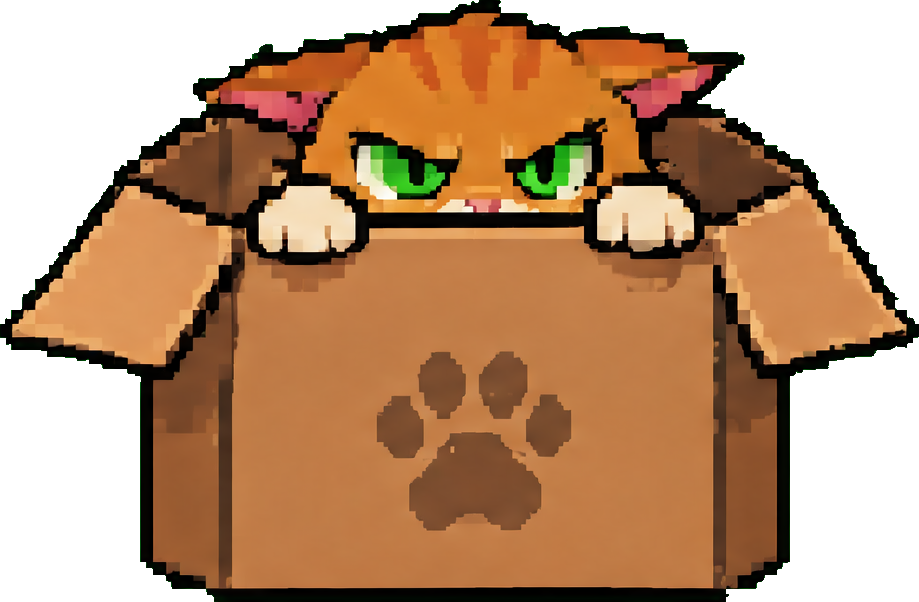
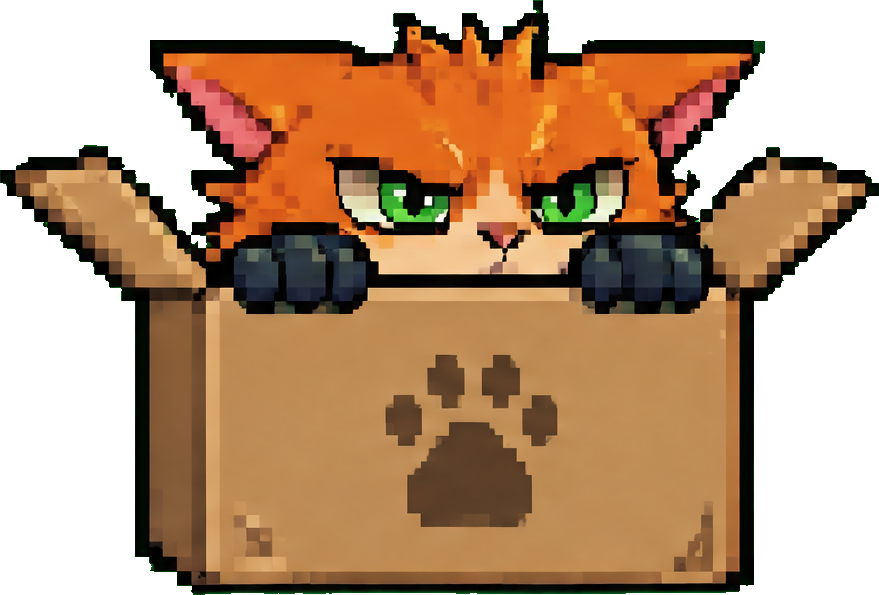
Space Whiskers: Miss Clou redrawn from the owner's character sheet; the sheet listed in ref.json
The sheet (ref/misscloue_referencesheet.png, added on main) is now the design reference of tools/sheets2.mjs's missclou sheet; the earlier takes are kept as originals.
pack_moon2.py recolours the lime patch left in the startled tail.

Claude-Session: https://claude.ai/code/session_01Q3BUi73YBWJ2GXbmis6gA1

diff --git a/games/spacewhiskers/tools/pack_moon2.py b/games/spacewhiskers/tools/pack_moon2.py
@@ -70,6 +70,15 @@ def despill(path):
     Image.fromarray(a.astype(np.uint8)).save(path)
 
 
+def lime_to_orange(path):
+    """a patch of the green ground stayed inside Miss Clou's startled tail: lime pixels (green far above red and blue) become fur orange"""
+    a = np.asarray(Image.open(path).convert('RGBA')).astype(int)
+    m = (a[..., 3] > 0) & (a[..., 1] > a[..., 0] + 30) & (a[..., 1] > a[..., 2] + 60)
+    H, W = m.shape; m[:int(H * .4)] = False; m[:, int(W * .4):] = False   # only the tail (left, lower): her eyes and the helmet's tint are green on purpose
+    a[..., 0] = np.where(m, np.maximum(a[..., 0], 215), a[..., 0]); a[..., 1] = np.where(m, a[..., 1] * 0.5, a[..., 1]).astype(int)
+    Image.fromarray(a.astype(np.uint8)).save(path)
+
+
 def reflected_sky(dst):
     """a glossy crust mirrors the sky: the bottom 108 game pixels of round 1's sky, flipped upside down, washed toward milk white, fading out downwards in steps"""
     sky = Image.open(REF / 'bubblingmoon_bg_outdoor_1.png').convert('RGB').crop((0, 648, 3840, 1080))
@@ -87,11 +96,11 @@ All sizes below are art pixels (one art pixel = a 4 x 4 block of picture pixels)
 
 ## First, three things that apply to everything
 
-1. **The model draws bigger than it is asked to.** I asked for your sizes, but the pictures came out larger (Miss Clou stands about 214 art pixels tall, Pip 49; the round-2 ladder is 49 x 91 where the first one is 21 x 57). I did **not**
+1. **The model draws bigger than it is asked to.** I asked for your sizes, but the pictures came out larger (Miss Clou stands about 240 art pixels tall, Pip 49; the round-2 ladder is 49 x 91 where the first one is 21 x 57). I did **not**
    resample: the pack lists the size drawn, the size asked and the factor for every sprite (`sprites/INDEX.md`, `manifest.json`), so your prep step can snap them and scale them to the size you want. Where a sprite is cut in a family
    (the pipe slide, Miss Clou) its pieces are drawn at the same scale as each other, except where noted.
 2. **The pixels are not on a perfect 4 x 4 grid** (as in the first pack): the Pixel Snapper step still has to put them on the grid and the palette.
-3. **I could not listen to any sound**, and I did not have your Miss Clou sheet as a file (only what I could see of it): see below.
+3. **I could not listen to any sound**: see the end.
 
 ## 1. Missing from the pack: done
 
@@ -112,8 +121,10 @@ All sizes below are art pixels (one art pixel = a 4 x 4 block of picture pixels)
 - **Pipe slide pieces at Pip's size: partly.** `pipeslide/straight` (tiles end to end), `end-left`, `end-right` (spits, with a drip), `tee-up`, `tee-down`: clear inside about **52 art pixels** tall, a little under the 54 you asked for (Pip is 49).
   `pipeslide/shaft` (tiles), `corner-up`, `corner-down` and `flow-1..4` come from a second try and are about **1.2 times bigger** than the straight piece (clear inside 53-56): scale the first set up by 1.1-1.2 or the second down to match.
   The glass is **not see-through**: tube and milk are one opaque picture; to let Pip show inside, draw him over it and draw the glass highlights over him, or tell me and I will draw a glass-only layer.
-- **Miss Clou: done, with a caveat.** `missclou/stand, cool, startled, hover-1, hover-2` (booster flame), `box-open-cat`, `box-closed-cat`, `box-empty`. She is drawn from my reading of your character sheet (orange tabby, white and orange suit,
-  cyan chest gauge, pointed ears, green eyes, ion-booster pack, bubble helmet, no cape), **not from the sheet itself**: it was not on disk. Please put the original in `games/spacewhiskers/ref/` and I will match her to it.
+- **Miss Clou: done.** `missclou/stand, cool, startled, hover-1, hover-2` (booster flame), `box-open-cat`, `box-closed-cat`, `box-empty`. Drawn from **your character sheet** (`misscloue_referencesheet.png`, now in the repository): the orange tabby with
+  pink-lined ears, the white suit with charcoal panels and orange piping, the cyan chest gauge, the pack with its cyan strip and boosters, no cape, in game proportions (a big head). A first take, made from my reading of the sheet
+  before it was in the repository, is kept in `ref/` and not delivered. She is drawn big (about 240 art pixels tall: factor about 0.2 to the 52 asked, see INDEX). The startled frame had a patch of the green ground inside its tail, which I recoloured to fur orange in the pack:
+  look at it. Her face in the box is a front view with her fur spiked up: it reads grumpy, not like the sheet's neat face.
 - **The helmeted cat on the pump trolley: done.** `cat/trolley`, `helmet-asleep-1`, `helmet-asleep-2` (breathing), `helmet` (cracked open), `freed` (sitting up, surprised).
 - **Scrapbook: done.** `scrapbook/polaroid-frame`, the nine photos (`photo-reflection, photo-curd-sail, photo-milkyway-top, photo-missclou-box, photo-plaque, photo-old-ceremony, photo-pipe-map, photo-new-bubble, photo-blank`),
   `camera-icon`, `map-page`, HUD icons `hud-photo-icon, hud-map-icon, hud-camera-icon`. (The cat in `photo-missclou-box` is a ginger tabby in a box: it does not wear the suit, as a photo of her in the box should not.)
@@ -165,6 +176,7 @@ def main(out):
             if group in SKIP: continue
             dst = root / 'sprites' / group / f'{name}.png'; dst.parent.mkdir(parents=True, exist_ok=True); shutil.copy(REF / f['file'], dst)
             if f'{group}/{name}' in DESPILL: despill(dst)
+            if f'{group}/{name}' == 'missclou/startled': lime_to_orange(dst)
             a = asked.get((group, name)); sz = [f['size'][0] // 4, f['size'][1] // 4]
             manifest.append(dict(group=group, name=name, file=f'sprites/{group}/{name}.png', size_px=f['size'], size_game_px=sz, asked_game_px=list(a) if a else None,
                                  factor_to_asked=round(a[1] / sz[1], 2) if a and sz[1] else None, sheet=sheet_file, box_on_sheet=f['box']))

diff --git a/games/spacewhiskers/tools/art.py b/games/spacewhiskers/tools/art.py
@@ -33,6 +33,9 @@ SHEETS = [
          source='the owner (an image model)', use='props for the levels, on a green ground (not cut yet)'),
     dict(file='StarWhiskers-theholycow_cover.png', title='Cover: Pip, the cat, the Holy Cow and MEGA-MJAU\'s fortress (title art still reads "Star Whiskers")',
          source='the owner (an image model)', use='the cover and title screen; the look of the cast'),
+    dict(file='misscloue_referencesheet.png', title='Miss Clou: the character reference sheet (front, side, back, helmet, life support, action poses, faces, palette)',
+         source='the owner (an image model)', use='her design for the Bubbling Moon (the box, the booster hover); the second take of tools/sheets2.mjs\'s missclou sheet draws her from it',
+         note='Labels are in Danish and English (HJELM = helmet, RYGSAEK = backpack, ANSIGTSUDTRYK = facial expressions, FARVEPALETTE = colour palette, DETALJER = details).'),
     # ---- the Bubbling Moon (chapter 9): made through the image API by tools/sheets.mjs, one big picture each, to be cut up later ----
     # (the prompts and what the API answered are in ref/prompts/; the level design that asks for them is story/BUBBLING_MOON.md)
     dict(file='bubblingmoon_terrain.png', title='Bubbling Moon props 1: ground and platforms (glossy, thin and matte crust, floating chunks, Swiss ledges), craters and holes, rocks, plants, decals',
@@ -67,6 +70,7 @@ ROUND2_NOTES = {
     'bubblingmoon2_slide.png': 'The second take of the slide pieces: straight, end-left, end-right, tee-up, tee-down (clear inside about 52 art pixels), the pipeline leg and the giant bubble. Its shaft, corners and flow frames are cut as pipeslide_take1 (too small); slide2 has the good ones.',
     'bubblingmoon2_slide2.png': 'The shaft, the two corners and the four flow frames redrawn to the straight piece\'s size (clear inside 53-56 art pixels): about 1.2 times the size of the straight piece of slide.',
     'bubblingmoon2_characters.png': 'The cats, Pip crawling and the rocket. Its first Miss Clou (row 1 and the box, cut as missclou_old) came out as a mouse in a cat suit because Pip\'s picture was one of the references: kept, not used. missclou.png redraws her without it.',
+    'bubblingmoon2_missclou_take1.png': 'Miss Clou, first take, from a description of her sheet (before it was in the repository): kept as drawn, not cut.',
     'bubblingmoon2_missclou.png': 'Miss Clou without Pip among the references: pointed ears, white and orange suit, cyan chest gauge, ion boosters, no cape (a text description of the owner\'s character sheet: the sheet itself was not in the repository).',
     'bubblingmoon2_anim_a.png': 'Animation frames: the bubble swell (7 of the 8 steps: step 5 was not drawn), crumb bubbles, glows, fan, gust, curd, crust, rising bubble. The large glow has two tiny white ticks under it.',
 }

diff --git a/games/spacewhiskers/ref/README.md b/games/spacewhiskers/ref/README.md
@@ -44,6 +44,12 @@ writes `ref.json` (the site's ART page reads it). Boxes are x0, y0, x1, y1 on th
 
 ![StarWhiskers-theholycow_cover.png](StarWhiskers-theholycow_cover.png)
 
+## Miss Clou: the character reference sheet (front, side, back, helmet, life support, action poses, faces, palette)
+
+`misscloue_referencesheet.png`, 1088 x 608, from the owner (an image model). Labels are in Danish and English (HJELM = helmet, RYGSAEK = backpack, ANSIGTSUDTRYK = facial expressions, FARVEPALETTE = colour palette, DETALJER = details). Used for: her design for the Bubbling Moon (the box, the booster hover); the second take of tools/sheets2.mjs's missclou sheet draws her from it.
+
+![misscloue_referencesheet.png](misscloue_referencesheet.png)
+
 ## Bubbling Moon props 1: ground and platforms (glossy, thin and matte crust, floating chunks, Swiss ledges), craters and holes, rocks, plants, decals
 
 `bubblingmoon_terrain.png`, 3840 x 2160, from Claude, through the image API (gpt-image-2.6-flare, high; tools/sheets.mjs). 7 rows, cut into 69 sprites (tools/cut_sheets.py). Missing: "crater cap L" (row 3 has 6 of 7); "swiss edge R" was drawn twice (the second is "swiss edge R 2"); two labels are garbled ("hole oval", "wall cap"). The paw prints came out pink-purple, so the key left only fragments of them. (A first take, made at medium quality with a looser style block, was softer and noisier and is not kept.) Used for: the level's ground, platforms, pits and holes (not cut yet).
@@ -615,7 +621,7 @@ writes `ref.json` (the site's ART page reads it). Boxes are x0, y0, x1, y1 on th
 | ![hall exterior-wall](frames/bubblingmoon2_hall_exterior-wall.png) | hall exterior-wall | 251, 1317, 1686, 1922 | Bubbling Moon round 2, the pump hall, row 3: not in a game yet |
 | ![hall entrance-big](frames/bubblingmoon2_hall_entrance-big.png) | hall entrance-big | 1946, 1321, 3044, 1922 | Bubbling Moon round 2, the pump hall, row 3: not in a game yet |
 
-## Bubbling Moon round 2: Miss Clou (a second try, drawn without the picture of Pip)
+## Bubbling Moon round 2: Miss Clou, drawn from her character design sheet
 
 `bubblingmoon2_missclou.png`, 3840 x 2160, from Claude, through the image API (gpt-image-2.6-flare, high; tools/sheets2.mjs). Miss Clou without Pip among the references: pointed ears, white and orange suit, cyan chest gauge, ion boosters, no cape (a text description of the owner's character sheet: the sheet itself was not in the repository). Used for: what the owner's second list of art still needed asks for (the Godot level).
 
@@ -623,14 +629,20 @@ writes `ref.json` (the site's ART page reads it). Boxes are x0, y0, x1, y1 on th
 
 | drawing | name | box | used for |
 |---|---|---|---|
-| ![missclou stand](frames/bubblingmoon2_missclou_stand.png) | missclou stand | 94, 145, 741, 1003 | Bubbling Moon round 2, Miss Clou, row 1: not in a game yet |
-| ![missclou cool](frames/bubblingmoon2_missclou_cool.png) | missclou cool | 911, 131, 1475, 1003 | Bubbling Moon round 2, Miss Clou, row 1: not in a game yet |
-| ![missclou startled](frames/bubblingmoon2_missclou_startled.png) | missclou startled | 1577, 137, 2256, 1004 | Bubbling Moon round 2, Miss Clou, row 1: not in a game yet |
-| ![missclou hover-1](frames/bubblingmoon2_missclou_hover-1.png) | missclou hover-1 | 2348, 37, 2939, 975 | Bubbling Moon round 2, Miss Clou, row 1: not in a game yet |
-| ![missclou hover-2](frames/bubblingmoon2_missclou_hover-2.png) | missclou hover-2 | 3149, 53, 3717, 1003 | Bubbling Moon round 2, Miss Clou, row 1: not in a game yet |
-| ![missclou box-open-cat](frames/bubblingmoon2_missclou_box-open-cat.png) | missclou box-open-cat | 279, 1250, 1198, 1852 | Bubbling Moon round 2, Miss Clou, row 2: not in a game yet |
-| ![missclou box-closed-cat](frames/bubblingmoon2_missclou_box-closed-cat.png) | missclou box-closed-cat | 1478, 1257, 2307, 1852 | Bubbling Moon round 2, Miss Clou, row 2: not in a game yet |
-| ![missclou box-empty](frames/bubblingmoon2_missclou_box-empty.png) | missclou box-empty | 2675, 1264, 3428, 1852 | Bubbling Moon round 2, Miss Clou, row 2: not in a game yet |
+| ![missclou stand](frames/bubblingmoon2_missclou_stand.png) | missclou stand | 101, 168, 738, 1143 | Bubbling Moon round 2, Miss Clou, row 1: not in a game yet |
+| ![missclou cool](frames/bubblingmoon2_missclou_cool.png) | missclou cool | 903, 167, 1490, 1143 | Bubbling Moon round 2, Miss Clou, row 1: not in a game yet |
+| ![missclou startled](frames/bubblingmoon2_missclou_startled.png) | missclou startled | 1599, 195, 2289, 1143 | Bubbling Moon round 2, Miss Clou, row 1: not in a game yet |
+| ![missclou hover-1](frames/bubblingmoon2_missclou_hover-1.png) | missclou hover-1 | 2487, 64, 2987, 1118 | Bubbling Moon round 2, Miss Clou, row 1: not in a game yet |
+| ![missclou hover-2](frames/bubblingmoon2_missclou_hover-2.png) | missclou hover-2 | 3229, 77, 3765, 1143 | Bubbling Moon round 2, Miss Clou, row 1: not in a game yet |
+| ![missclou box-open-cat](frames/bubblingmoon2_missclou_box-open-cat.png) | missclou box-open-cat | 386, 1322, 1265, 1917 | Bubbling Moon round 2, Miss Clou, row 2: not in a game yet |
+| ![missclou box-closed-cat](frames/bubblingmoon2_missclou_box-closed-cat.png) | missclou box-closed-cat | 1568, 1388, 2292, 1922 | Bubbling Moon round 2, Miss Clou, row 2: not in a game yet |
+| ![missclou box-empty](frames/bubblingmoon2_missclou_box-empty.png) | missclou box-empty | 2600, 1401, 3501, 1922 | Bubbling Moon round 2, Miss Clou, row 2: not in a game yet |
+
+## Bubbling Moon round 2: Miss Clou (a second try, drawn without the picture of Pip)
+
+`bubblingmoon2_missclou_take1.png`, 3840 x 2160, from Claude, through the image API (gpt-image-2.6-flare, high; tools/sheets2.mjs). Miss Clou, first take, from a description of her sheet (before it was in the repository): kept as drawn, not cut. Used for: what the owner's second list of art still needed asks for (the Godot level).
+
+![bubblingmoon2_missclou_take1.png](bubblingmoon2_missclou_take1.png)
 
 ## Bubbling Moon round 2: the scrapbook: polaroid frame, the photos, the camera, the map page, HUD icons
 

diff --git a/docs/HISTORY.md b/docs/HISTORY.md
@@ -1667,11 +1667,11 @@ image-to-video may be tried, and frames are made at game size. All of it is in `
 > Miss Clou, the cats, the scrapbook, the ground, the pump hall, animation frames, three more backgrounds) and, in the middle, "With the API keys, can you actually generate some sounds and music for the level too?" and a picture of Miss Clou.
 
 - **`tools/sheets2.mjs`**: the round-2 sheets as data (`SHEETS2`: a row plan each) and prompts, on a **green** ground (the magenta of round 1 ate pale and pink items). A sheet can name its own reference pictures (`refs`), so Miss Clou
-  is drawn without Pip's picture. Twelve sheets in `ref/bubblingmoon2_*.png`: `fixes`, `slide` (+ `slide_take1`, the first take, kept; `slide2`: the shaft, corners and flow frames redrawn at the straight piece's size), `characters`,
+  is drawn without Pip's picture. Twelve sheets (plus the kept first takes) in `ref/bubblingmoon2_*.png`: `fixes`, `slide` (+ `slide_take1`, the first take, kept; `slide2`: the shaft, corners and flow frames redrawn at the straight piece's size), `characters`,
   `missclou`, `scrapbook`, `ground`, `hall`, `anim_a`, `anim_b`, and three backgrounds (`bg_outdoor`, `bg_station_a`, `bg_station_b`, two panels each).
 - **`tools/cut_sheets.py --round2`** cuts them into 182 sprites (`ref/frames/bubblingmoon2_*`, listed in `ref/frames_moon2.json`, then `tools/art.py` puts them into `ref.json` and the README). New: labels up to 120 px apart
   are one row, and `tools/bubblingmoon2_layout.json` says what the model really drew where it left the plan (the geysers and the drain wheels share a row, the cats sit with the box, the pipeline leg with the flow frames).
-  The first Miss Clou came out as a mouse in a cat suit (Pip's picture was a reference): kept as `missclou_old`, not delivered.
+  The first Miss Clou came out as a mouse in a cat suit (Pip's picture was a reference): kept as `missclou_old`, not delivered. The second was drawn from a description (the owner's sheet was not in the repository yet; kept as `missclou_take1`); once the owner added `misscloue_referencesheet.png` she was drawn a third time with it as the design reference (charcoal panels, orange piping, pink ears), and that is the one delivered.
 - **What the pictures taught**: the model draws **larger** than the sizes asked for (Miss Clou 214 art pixels tall against Pip's 49; a ladder twice the first one), so the pack lists the size drawn, the size asked and the
   factor for every sprite, and nothing is resampled. The slide tubes came out 52 art pixels clear inside (Pip is 49); the second take is 1.2 times bigger. The bubble swell has seven of its eight steps. The dust beam was
   mostly eaten by the key.

diff --git a/docs/ROADMAP.md b/docs/ROADMAP.md
@@ -99,8 +99,7 @@ method first on one Pip walk cycle, then build the studio around the winner.
    the walk drafted from the sheet's 4 keys (ToonCrafter, Wan 2.7 between keys) and from the rig (PixelLab, a clear stride now). The owner picked
    PixelLab. Run, idle and jump drawn from approved rigs; all four accepted and playing in the Space Whiskers test level (HISTORY 73).
    Next for the game: the level's art from the props sheet, Pip's slide, crouch and wall slide, the Cat.
-   Round 2 of the moon's art and sound (HISTORY 76): 175 more sprites, 46 sounds, the moon theme and the ending as sampler songs. Next: the owner's Miss Clou sheet into `games/spacewhiskers/ref/` (she is drawn from a description),
-   Replicate credit for the 16 missing sounds and the API music (`node games/spacewhiskers/tools/sounds.mjs` skips what exists), a redraw of `dust-beam` and the eighth bubble-swell step, lit-paw counts 1 to 3 on the wheels, a glass-only layer for the slide.
+   Round 2 of the moon's art and sound (HISTORY 76): 175 more sprites, 46 sounds, the moon theme and the ending as sampler songs. Next: Replicate credit for the 16 missing sounds and the API music (`node games/spacewhiskers/tools/sounds.mjs` skips what exists), a redraw of `dust-beam` and the eighth bubble-swell step, lit-paw counts 1 to 3 on the wheels, a glass-only layer for the slide.
    The Bubbling Moon (HISTORY 75): level design and puzzle menu in `games/spacewhiskers/story/BUBBLING_MOON.md`, eight art sheets in `ref/` (props, backgrounds, foregrounds). Next: the owner picks the
    hook and the puzzles; snap the cut sprites (`games/spacewhiskers/ref/frames/bubblingmoon_*`) to the game grid and palette (`pixelite-pixel-art`), ask again for the missing items (crater cap L, map piece 2, the pump housing) and the pink-tinted ones (paw prints, mist, steam); build the moon as a level (bubbles that follow the beat, the curd, the valves). Next for the tool: the studio.
 3. The studio at `/anim/`: the rig editor over a base frame, the timeline (keys, eases, mirrored halves, loop preview with the seam), guides, a D1 table `anims` (JSON

diff --git a/games/spacewhiskers/NOTES.md b/games/spacewhiskers/NOTES.md
@@ -63,7 +63,7 @@ map pieces, curing the hiccup), the scrapbook photos, the open questions, and th
 `story/BUBBLING_MOON_DECISIONS.md` what the review notes say. `python3 games/spacewhiskers/tools/pack_moon.py out.zip` builds the pack zip.
 **Round 2** (HISTORY 76): the second list (gaps, pink pieces, the pipe slide, Miss Clou and the cats, scrapbook, ground, pump hall, animation frames, three backgrounds) is 175 more sprites
 (`pack_moon2.py out.zip`, whose `STATUS.md` goes through the list line by line), plus 46 sound effects (`audio/`) and music. The model draws larger than asked: every sprite's size drawn, asked and factor is in the pack's INDEX.
-Known: Miss Clou is drawn from a description (the owner's sheet is not in `ref/` yet: drop it there); the bubble swell has 7 of 8 steps; `dust-beam` is mostly eaten; the slide tubes are 52 art pixels clear inside, the second take 1.2x bigger;
+Miss Clou is drawn from the owner's sheet (`ref/misscloue_referencesheet.png`; the first take, made before it was in the repository, is `bubblingmoon2_missclou_take1.png`). Known: the bubble swell has 7 of 8 steps; `dust-beam` is mostly eaten; the slide tubes are 52 art pixels clear inside, the second take 1.2x bigger;
 the sounds were never heard; 16 planned sounds are missing (Replicate credit).
 
 ## Commands
